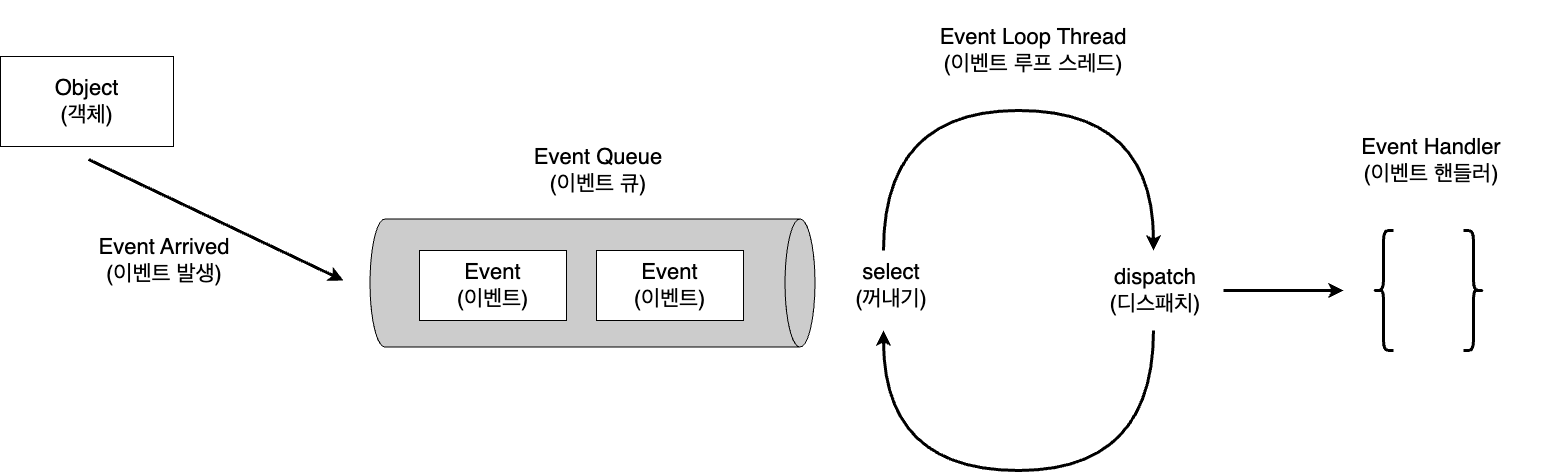
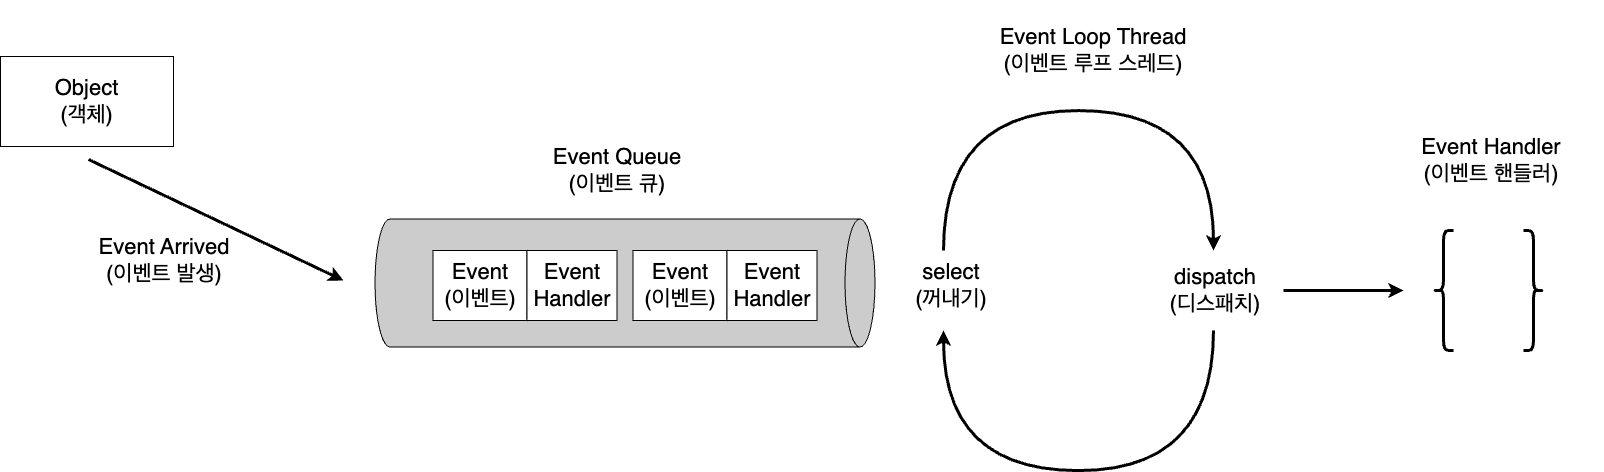
[수정] event loop

diff --git a/JAVA/network/nio/event_loop/event_loop.md b/JAVA/network/nio/event_loop/event_loop.md
@@ -50,6 +50,8 @@ Netty의 핵심이라고도 할 수 있는 Event Loop 방식의 동작원리는 
 
 * Event Loop
   * 무한 반복문을 실행하며 이벤트가 발생할 때까지 대기하다가 이벤트가 발생하면 해당 이벤트를 처리할 수 있는 Handler에게 디스패치한다.
+  * 보통 특정 Channel에 대한 이벤트를 큐에 삽입할 때, 해당 이벤트를 처리할 수 있는 Handler도 같이 첨부해준다.
+    * 처음 소켓이 열렸을 땐, `accept()`하면서 해당 Channel에 AcceptHandler를 첨부해준다. 
 * Handler
   * 이벤트를 받아 비즈니스 로직을 수행한다. (수행완료하고 결과에 맞는 이벤트를 다시 발행하기도한다.)
 
